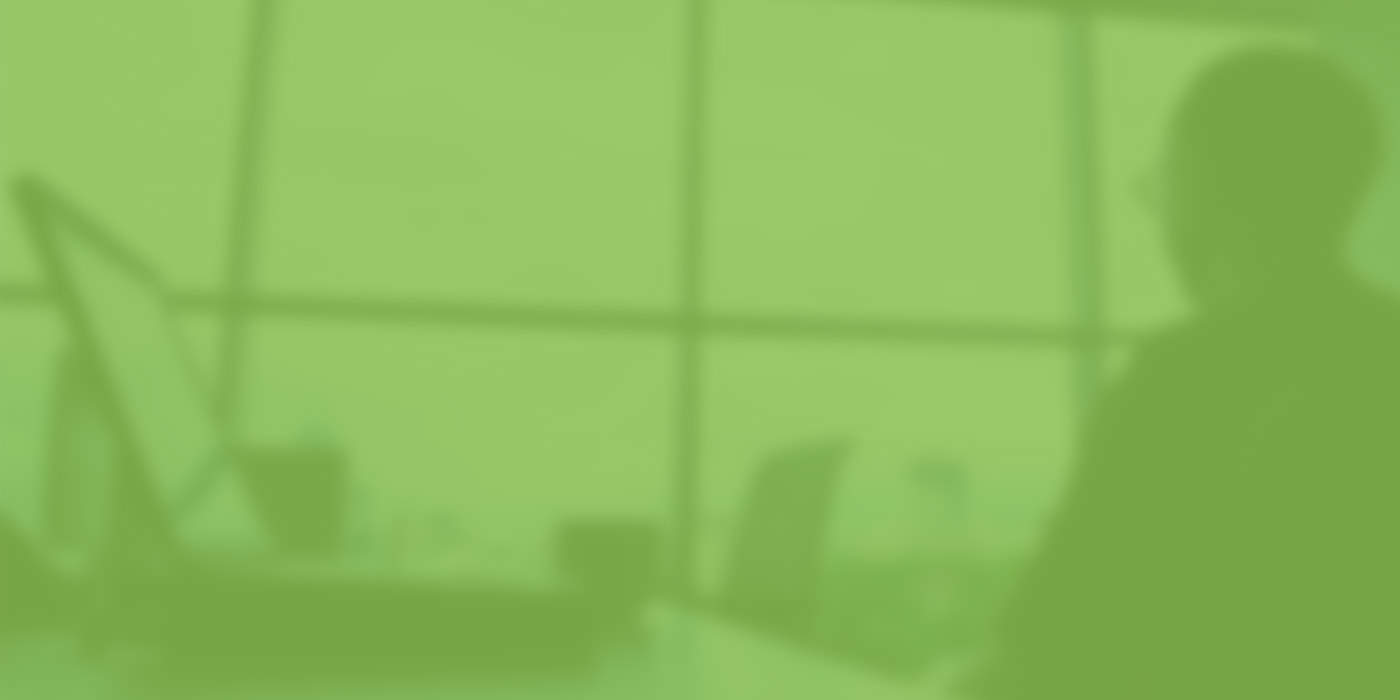
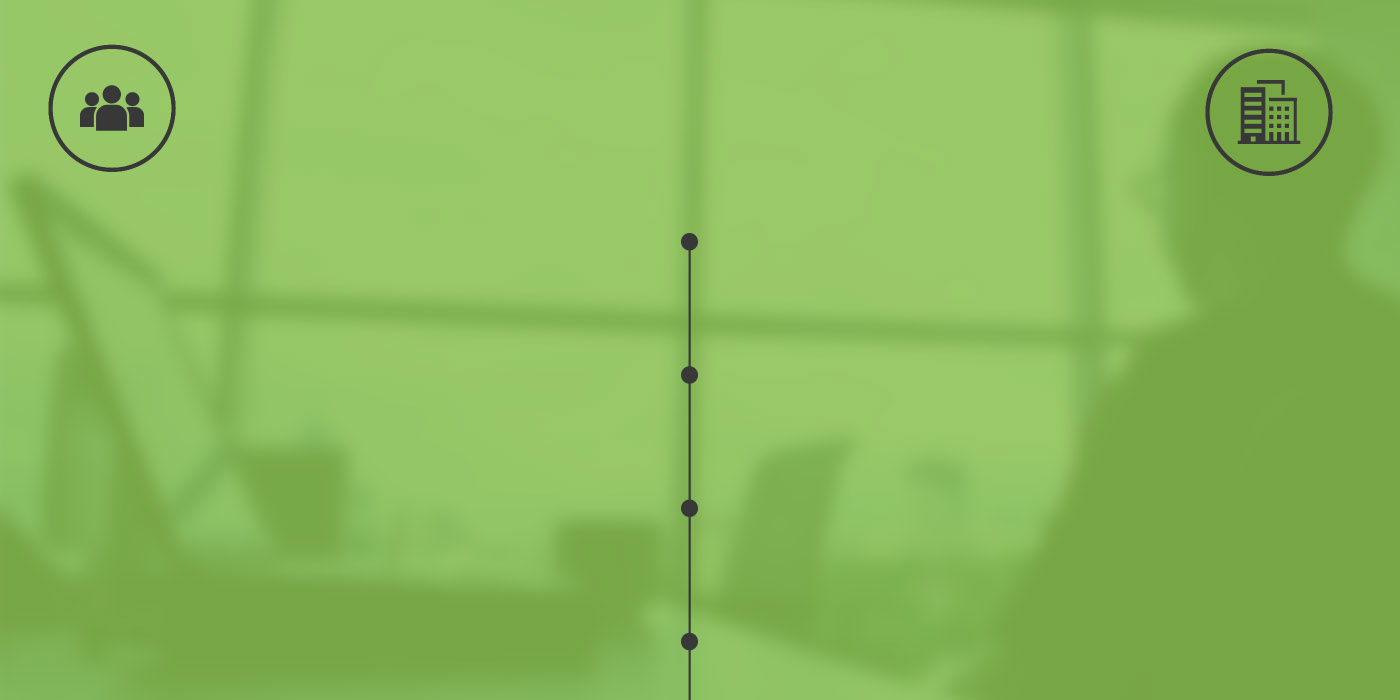
benefits

diff --git a/presentation2/index.html b/presentation2/index.html
@@ -14,7 +14,7 @@
         padding: 0;
         color: white;
         font-family: 'Open Sans', sans-serif;
-        font-weight: bold;
+        font-weight: 200;
       }
       .slide {
         height: 100%;
@@ -29,11 +29,13 @@
       }
       .left_col {
       	text-align: right;
-      	font-size: 40px;
+        padding-right: 70px;
+      	font-size: 33px;
       }
       .right_col {
       	text-align: left;
-      	font-size: 40px;
+        padding-left: 70px;
+      	font-size: 33px;
       }
       td {
       	line-height: 250%;
@@ -152,7 +154,7 @@
         <table style="border: none; width: 100%; margin: 50px;">
           <tr>
             <td class="left_col">Gas cost savings</td>
-            <td rowspan="4" style="text-align: center; width: 50px;">|</td>
+            <td rowspan="4" style="text-align: center; width: 50px;"></td>
             <td class="right_col">Team building</td>
           </tr>
           <tr>
